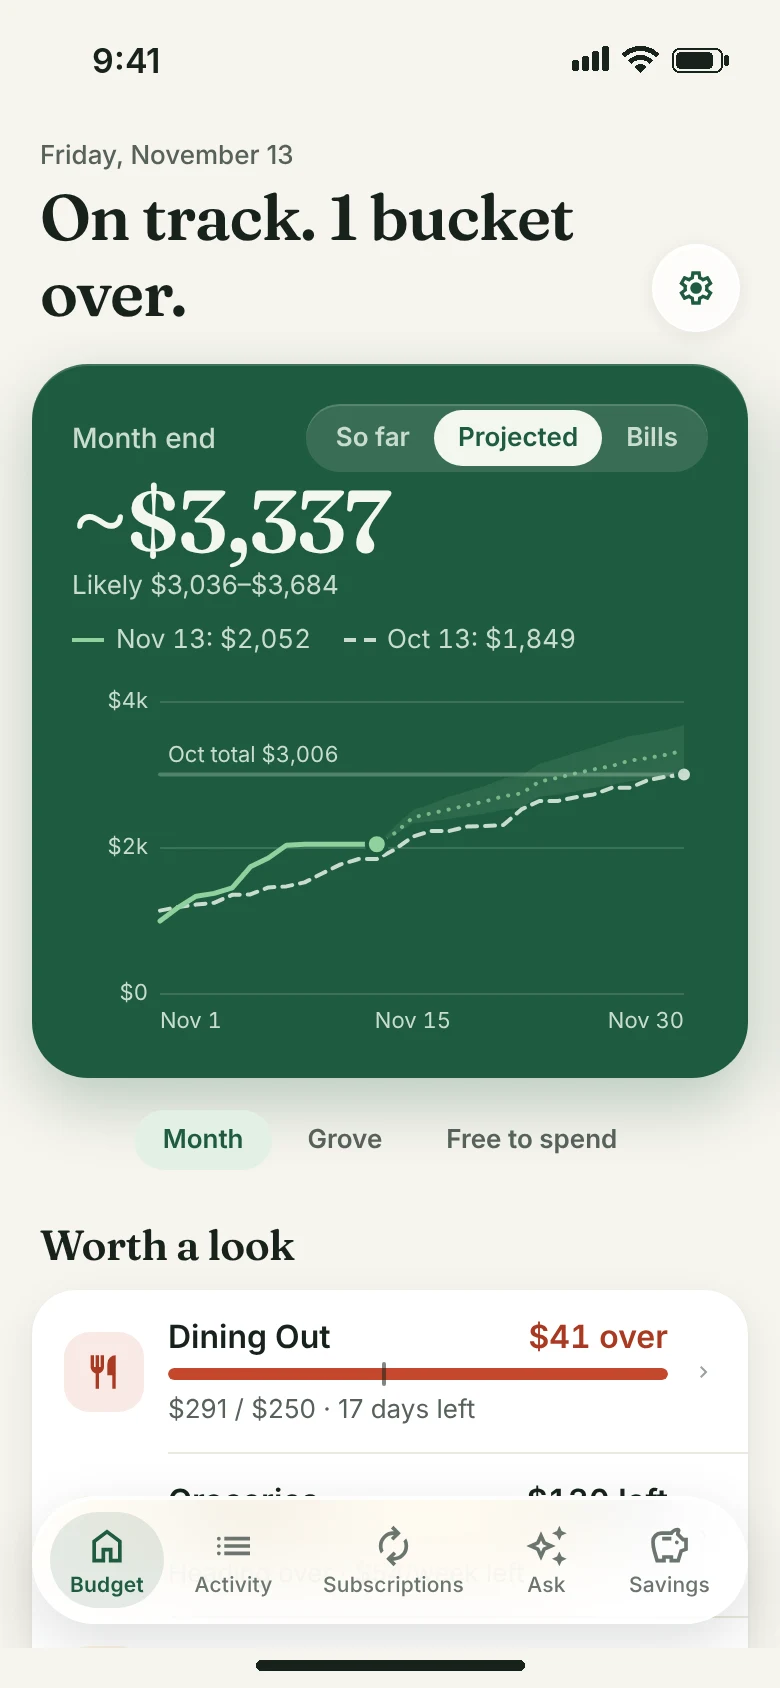
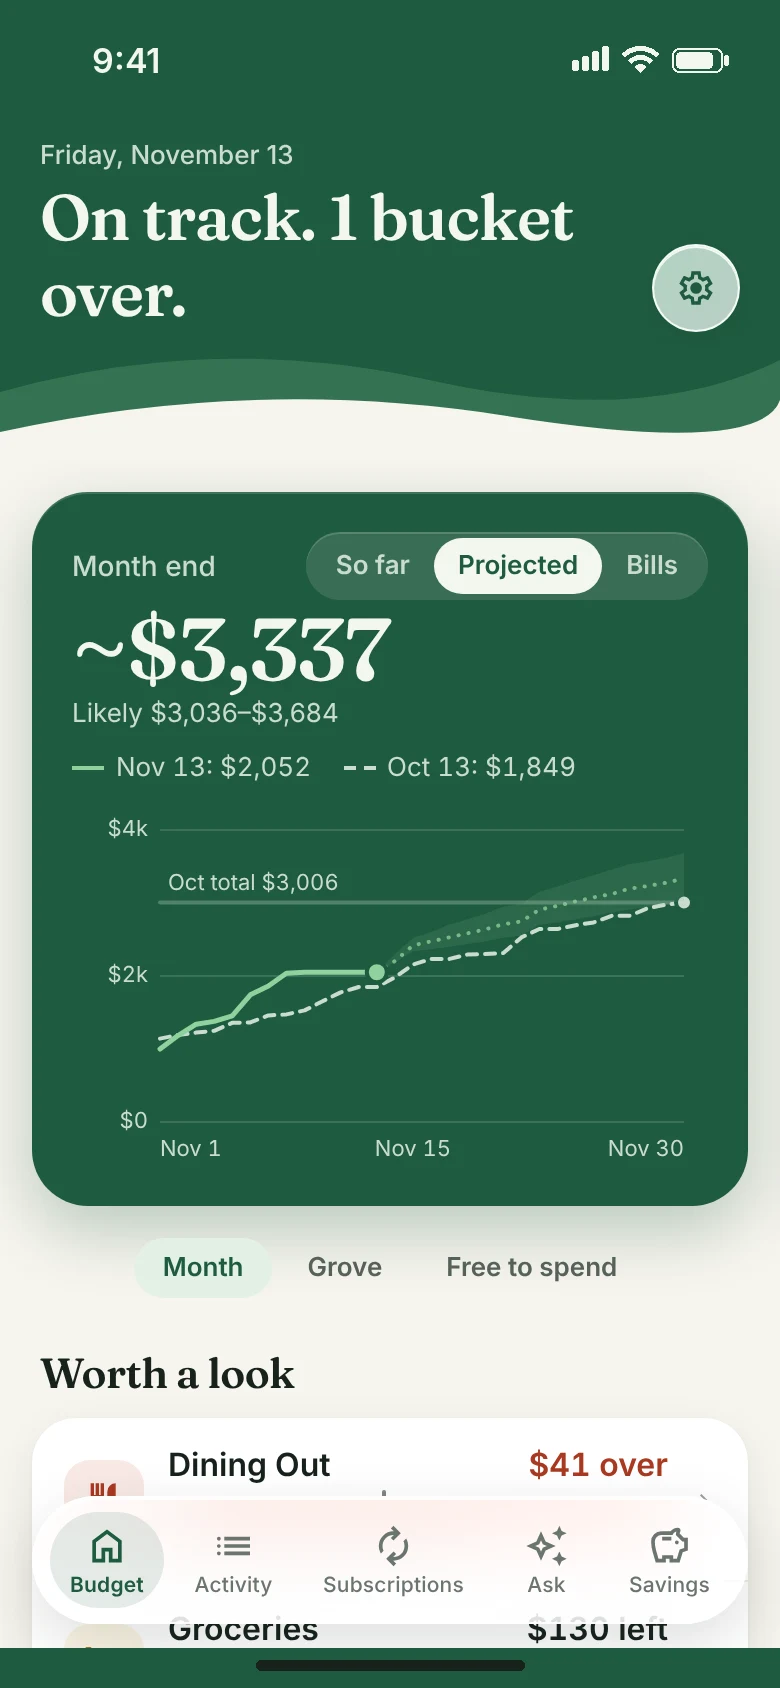
Swooping green header on Home; overspending covered by other trees
Claude-Session: https://claude.ai/code/session_0188SkW32xAgZYfghp436o2X

diff --git a/components/ui.tsx b/components/ui.tsx
@@ -5,6 +5,7 @@ import { BottomTabBarHeightContext } from 'expo-router/tabs';
 import { useContext, useEffect, useRef, useState, type ReactNode } from 'react';
 import { ActivityIndicator, Dimensions, Keyboard, Platform, Pressable, ScrollView, StyleSheet, Text, TextInput, View, type TextProps, type TextStyle, type ViewStyle } from 'react-native';
 import { useSafeAreaInsets } from 'react-native-safe-area-context';
+import Svg, { Path } from 'react-native-svg';
 import { scrollShift } from '@/src/lib/keyboard';
 import { columnStyle, useLayout } from '@/src/lib/layout';
 import Colors, { Fonts } from '@/constants/Colors';
@@ -22,8 +23,10 @@ export const radius = { card: 22, control: 14, pill: 999 } as const;
  * large serif title (with an optional `action` such as the Settings gear) instead of a
  * navigation bar; pushed screens keep the native header and leave `title` out.
  */
-export function Screen({ children, title, eyebrow, action, keyboardDone }: {
+export function Screen({ children, title, eyebrow, action, keyboardDone, swoop }: {
   children: ReactNode; title?: string; eyebrow?: string; action?: ReactNode;
+  /** Home's header: the title on deep green, ending in a hillside that swoops into the page. */
+  swoop?: boolean;
   /**
    * For screens with text fields: show a Done bar on top of the keyboard (iOS number pads have
    * no Return key) and scroll so the field being typed in sits just above it.
@@ -56,20 +59,34 @@ export function Screen({ children, title, eyebrow, action, keyboardDone }: {
   }, [keyboard.height, keyboard.changes]); // eslint-disable-line react-hooks/exhaustive-deps
 
   const keyboardRoom = keyboard.height != null ? keyboard.height + DONE_BAR_HEIGHT : 0;
+  const topPad = title ? insets.top + (wide ? space.xxl : space.l) : (wide ? space.xl : space.l);
+  // The swoop is a phone header; in the wide web layout the plain title fits the column better.
+  const green = !!swoop && !!title && !wide;
+  const titleRow = title && (
+    <View style={styles.titleRow}>
+      <View style={{ flexShrink: 1 }}>
+        {eyebrow && <Text style={[styles.eyebrow, { color: green ? t.heroMuted : t.secondaryText }]}>{eyebrow}</Text>}
+        <Text accessibilityRole="header" style={[styles.largeTitle, { color: green ? t.heroText : t.text }]} numberOfLines={2}>{title}</Text>
+      </View>
+      {action}
+    </View>
+  );
   const scroll = (
     <ScrollView ref={scrollRef as never} style={{ backgroundColor: t.background }} keyboardShouldPersistTaps="handled" keyboardDismissMode="interactive"
       onScroll={(e) => { offset.current = e.nativeEvent.contentOffset.y; }} scrollEventThrottle={16}
       contentInsetAdjustmentBehavior={title ? 'never' : 'automatic'}
-      contentContainerStyle={[{ paddingHorizontal: space.l, paddingTop: title ? insets.top + (wide ? space.xxl : space.l) : (wide ? space.xl : space.l), paddingBottom: Math.max((tabBar ?? 0) + space.xl, keyboardRoom + space.xl), gap: space.xl }, columnStyle(wide)]}>
-      {title && (
-        <View style={styles.titleRow}>
-          <View style={{ flexShrink: 1 }}>
-            {eyebrow && <Text style={[styles.eyebrow, { color: t.secondaryText }]}>{eyebrow}</Text>}
-            <Text accessibilityRole="header" style={[styles.largeTitle, { color: t.text }]} numberOfLines={2}>{title}</Text>
-          </View>
-          {action}
+      contentContainerStyle={[{ paddingHorizontal: space.l, paddingTop: topPad, paddingBottom: Math.max((tabBar ?? 0) + space.xl, keyboardRoom + space.xl), gap: space.xl }, columnStyle(wide)]}>
+      {green ? (
+        <View style={{ marginHorizontal: -space.l, marginTop: -topPad, paddingTop: topPad, backgroundColor: t.hero, marginBottom: -space.s }}>
+          {/* Green above the top too, so pulling down past the top doesn't show a cream gap. */}
+          <View style={{ position: 'absolute', left: 0, right: 0, top: -1000, height: 1000, backgroundColor: t.hero }} />
+          <View style={{ paddingHorizontal: space.l, paddingBottom: space.s }}>{titleRow}</View>
+          <Svg width="100%" height={64} viewBox="0 0 400 64" preserveAspectRatio="none" accessibilityElementsHidden importantForAccessibility="no-hide-descendants">
+            <Path d="M0 30 Q 110 0 220 24 T 400 14 V64 H0Z" fill={t.leaf} opacity={0.2} />
+            <Path d="M0 50 Q 130 22 260 42 T 400 34 V64 H0Z" fill={t.background} />
+          </Svg>
         </View>
-      )}
+      ) : titleRow}
       {children}
     </ScrollView>
   );

diff --git a/app/(tabs)/savings.tsx b/app/(tabs)/savings.tsx
@@ -13,9 +13,9 @@ export default function SavingsScreen() {
   const $ = (c: number) => formatCents(c, { showCents: false });
   const over = impact.totalOverspend;
   const parts = [
-    { label: 'Covered by other buckets', amount: impact.coveredByOtherBuckets, tone: 'good' as const },
-    { label: 'Taken from savings goals', amount: impact.hitsSavings - impact.uncovered, tone: 'warn' as const },
-    { label: 'Not covered', amount: impact.uncovered, tone: 'bad' as const },
+    { label: 'Other trees cover it', amount: impact.coveredByOtherBuckets, tone: 'good' as const, fill: 1 },
+    { label: 'Savings cover it', amount: impact.hitsSavings - impact.uncovered, tone: 'warn' as const, fill: 0.5 },
+    { label: 'Not covered yet', amount: impact.uncovered, tone: 'bad' as const, fill: 0 },
   ].filter((p) => p.amount > 0);
   const totalSaved = impact.goals.reduce((s, g) => s + g.balanceAfter, 0);
 
@@ -46,7 +46,7 @@ export default function SavingsScreen() {
             </View>
             {parts.map((p) => (
               <View key={p.label} style={styles.legend} accessible accessibilityLabel={`${p.label}: ${formatCents(p.amount)}`}>
-                <View style={[styles.swatch, { backgroundColor: toneColor(t, p.tone) }]} />
+                <GroveTree size={26} fill={p.fill} tone={p.tone} />
                 <Label style={{ fontSize: 15, flex: 1 }}>{p.label}</Label>
                 <Label style={{ fontSize: 15, fontWeight: '600', fontVariant: ['tabular-nums'] }}>{formatCents(p.amount)}</Label>
               </View>
@@ -91,5 +91,4 @@ export default function SavingsScreen() {
 const styles = StyleSheet.create({
   stack: { flexDirection: 'row', height: 12, borderRadius: 6, overflow: 'hidden', gap: 2 },
   legend: { flexDirection: 'row', alignItems: 'center', gap: 10 },
-  swatch: { width: 12, height: 12, borderRadius: 3 },
 });

diff --git a/app/(tabs)/index.tsx b/app/(tabs)/index.tsx
@@ -121,7 +121,7 @@ export default function BudgetScreen() {
   }
 
   return (
-    <Screen eyebrow={dateLabel} title={verdict.text} action={<SettingsButton />}>
+    <Screen swoop eyebrow={dateLabel} title={verdict.text} action={<SettingsButton />}>
       {needsHousehold && (
         <>
           <Notice title="Start your budget" icon={{ ios: 'house.fill', android: 'home', web: 'home' }}>
